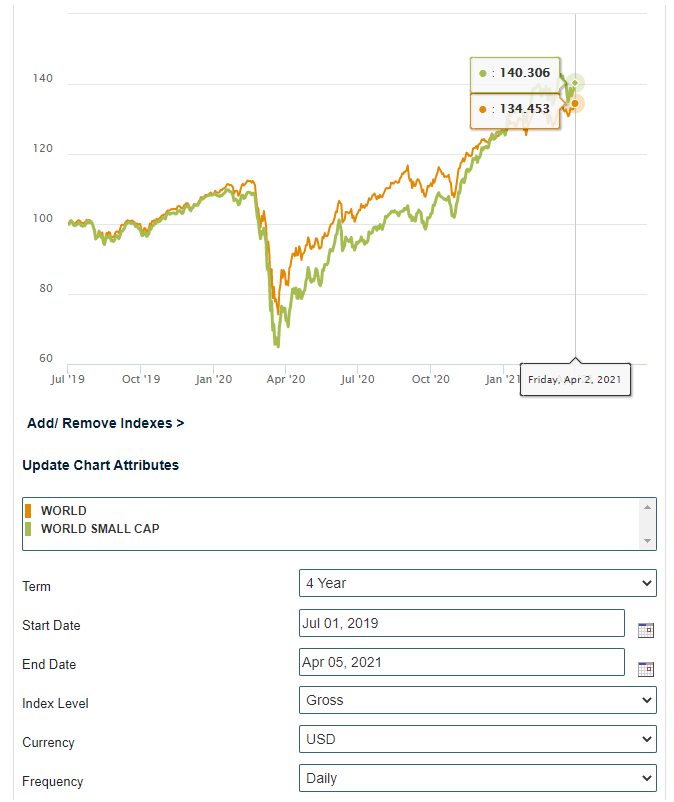
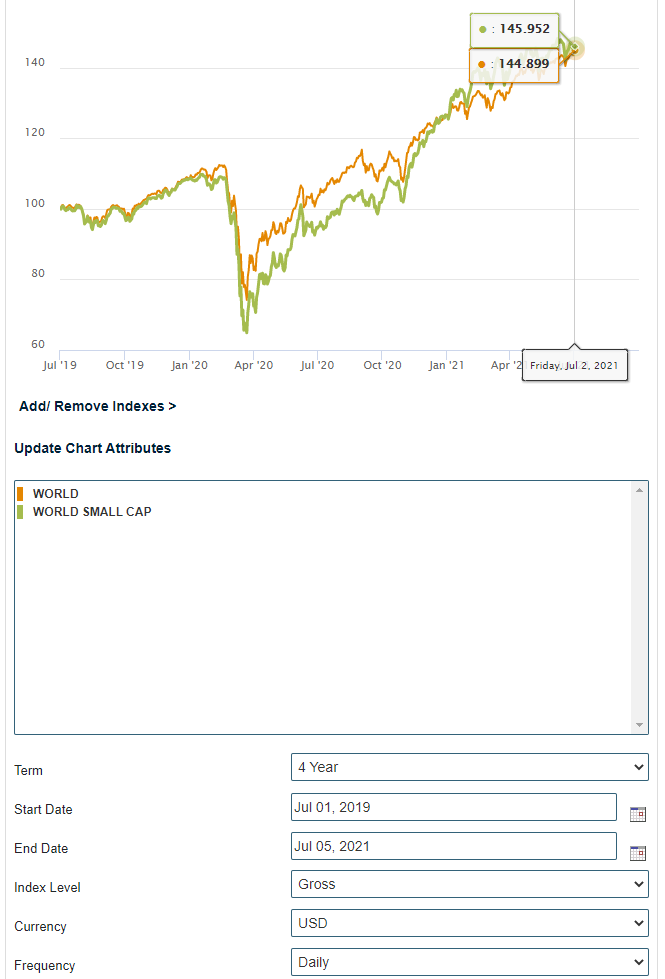
Updated bet-of-the-decade

diff --git a/blog/bet-of-the-decade.html b/blog/bet-of-the-decade.html
@@ -72,7 +72,7 @@
 <section class="row">
 <div class="coffee-span-12 header">
 <h3 class="heading-1" style="direction: rtl; font-size: 40px; padding-bottom: 20px;">התערבות העשור: השקעה פאסיבית מול מנוהלת</h3>
-<p class="paragraph" style="font-size:12px;">פורסם בתאריך 30.6.2019, עדכון אחרון ב-5.4.2021</p>
+<p class="paragraph" style="font-size:12px;">פורסם בתאריך 30.6.2019, עדכון אחרון ב-5.7.2021</p>
 <p class="paragraph" style="font-size:12px;">התכנים בפוסט זה, כמו כל שאר התכנים בבלוג, הינם תכנים לימודיים במהותם, הם אינם מהווים ייעוץ או המלצה לביצוע פעולה בנייר ערך, ואין לראות בהם תחליף לייעוץ השקעות ו/או ייעוץ פנסיוני המתחשב בצרכיו הייחודיים של כל אדם.</p>
 <br>
 <div class="container table-row">
@@ -98,42 +98,41 @@
 <p class="paragraph" style="text-align: center;"><img src="../images/buffett-seides-bet.jpg" alt="buffett-seides-bet"></p>
 <p class="paragraph">כעת, כשנתיים לאחר סיום ההתערבות של באפט וסיידס, אנחנו, יואב ורונן, מעוניינים לשחזר את ההתערבות הזו, עם שינוי קל בתנאים, ולאפשר גם למתחרים נוספים להשתתף בה כמתחרים משניים. עמוד זה יעקוב אחר תשואת התיקים של יואב ושל רונן והתוצאות יעודכנו אחת לרבעון.</p>
 <p class="paragraph" style="padding-top: 20px; font-size:22px;">פרטי ההתערבות</p>
-<p class="paragraph">ההתערבות תצא לדרך בחציון השני של 2019 (כלומר ב-1.7.2019) ותימשך עשור. הפרטים המלאים של ההתערבות מופיעים ב<a target="_blank" href="takanon.pdf">תקנון</a>, ולהלן עיקרי הדברים:</p>
+<p class="paragraph">ההתערבות תצא לדרך בחציון השני של 2019 (כלומר ב-1.7.2019) ותימשך עשור. להלן פרטי ההתערבות:</p>
 <p class="paragraph">1. <b>תקופת התחרות</b>: 1.7.2019 – 30.6.2029.</p>
 <p class="paragraph">2. <b>המתחרים</b>: ואב זליקוביץ ורונן מרגוליס.</p>
-<p class="paragraph">3. <b>הפרס לזוכה</b>: המפסיד בתחרות יתרום 1,800 ₪ לעמותת צדקה לבחירת המנצח (מבין שני המתחרים הראשיים).</p>
-<p class="paragraph">4. <b>על כל מתחרה לבחור באחד משני מסלולים</b>: תיק פאסיבי או תיק מנוהל. הבוחרים בתיק פאסיבי יידרשו לבחור מדד/ים אחר/ים מאלו שבחר רונן, והבוחרים בתיק מנוהל יידרשו לבחור תיק מניות ספציפי, השונה מהתיק של יואב (תותר חפיפה של עד 20%).</p>
-<p class="paragraph">5. <b>אופן הדיווח – תיק מנוהל</b>: יואב יפתח לצורך התחרות חשבון מסחר אמיתי וידווח על מצב התיק באמצעות השוואת שווי התיק ביום הדיווח אל מול שווי התיק בתחילת התחרות.</p>
-<p class="paragraph">6. <b>אופן הדיווח – תיק פאסיבי</b>: רונן ידווח על מצב התיק באמצעות דיווח תוצאות המדדים עצמם.</p>
-<p class="paragraph">7. <b>דמי ניהול</b>: מהחשבון של יואב יופחתו לצורך חישוב התשואה דמי ניהול בגובה 1.2% לשנה, בניכוי רבעוני של 0.3% מהתיק. מהתיק של רונן לא יופחתו דמי ניהול. עלות דמי ניהול של קרנות אשר עוקבות אחרי המדדים בתיק עומדת על כ-0.25%, וסכום דומה הופחת מדמי הניהול הטיפוסיים בתיקים מנוהלים כדוגמת התיק של יואב, שלרוב גבוהים מ-1.2%.</p>
-<p class="paragraph">8. <b>עמלות</b>: כדי לבצע השוואה הוגנת בין התיקים, גובה עמלות הקניה הראשוניות צריך להיות זהה. כיוון שהתיק של רונן מדווח באמצעות מדדים ולכן אינו כולל עמלת קניה, יתווסף לתיק של יואב הסכום של עמלת הקניה הראשונית שלו.</p>
-<p class="paragraph">9. <b>מיסים</b>: מיסים על רווחי הון ועל דיבידנדים לא יהיו חלק מחישוב התשואות, אלא אם נוכו במקור.</p>
-<p class="paragraph">10. <b>נכסים מותרים</b>: לתיק מנוהל – מניות הנסחרות בבורסה מוכרת בעולם. אין להחזיק בתיק מניה בודדת בהיקף העולה על 20% משווי התיק. לתיק פאסיבי – מדדים וקרנות סל. בשתי האפשרויות חל איסור על שימוש במינוף, נגזרים ואופציות.</p>
-<p class="paragraph">11. <b>שינויים בהרכב התיק לאורך תקופת התחרות</b>: יואב לא יוכל להחליף חברות בתיק לאורך תקופת התחרות, וכספי דיבידנדים שיתקבלו יוכלו להיות מושקעים מחדש רק באחת או יותר מהחברות שברשימה. האפשרות היחידה של יואב להחליף חברה בתיק תהיה רק במידה ואותה חברה נרכשה, ובמקרה זה יוכל יואב להשקיע את כספי תמורת המכירה באחת או יותר מהמניות שכבר מצויות בתיקו.</p>
+<p class="paragraph">3. <b>הפרס לזוכה</b>: המפסיד בתחרות יתרום 1,800 ₪ לעמותת צדקה לבחירת המנצח.</p>
+<p class="paragraph">4. <b>אופן הדיווח – תיק מנוהל</b>: יואב יפתח לצורך התחרות חשבון מסחר אמיתי וידווח על מצב התיק באמצעות השוואת שווי התיק ביום הדיווח אל מול שווי התיק בתחילת התחרות.</p>
+<p class="paragraph">5. <b>אופן הדיווח – תיק פאסיבי</b>: רונן ידווח על מצב התיק באמצעות דיווח תוצאות המדדים עצמם.</p>
+<p class="paragraph">6. <b>דמי ניהול</b>: מהחשבון של יואב יופחתו לצורך חישוב התשואה דמי ניהול בגובה 1.2% לשנה, בניכוי רבעוני של 0.3% מהתיק. מהתיק של רונן לא יופחתו דמי ניהול. עלות דמי ניהול של קרנות אשר עוקבות אחרי המדדים בתיק עומדת על כ-0.25%, וסכום דומה הופחת מדמי הניהול הטיפוסיים בתיקים מנוהלים כדוגמת התיק של יואב, שלרוב גבוהים מ-1.2%.</p>
+<p class="paragraph">7. <b>עמלות</b>: כדי לבצע השוואה הוגנת בין התיקים, גובה עמלות הקניה הראשוניות צריך להיות זהה. כיוון שהתיק של רונן מדווח באמצעות מדדים ולכן אינו כולל עמלת קניה, יתווסף לתיק של יואב הסכום של עמלת הקניה הראשונית שלו.</p>
+<p class="paragraph">8. <b>מיסים</b>: מיסים על רווחי הון ועל דיבידנדים לא יהיו חלק מחישוב התשואות, אלא אם נוכו במקור.</p>
+<p class="paragraph">9. <b>נכסים מותרים</b>: לתיק מנוהל – מניות הנסחרות בבורסה מוכרת בעולם. אין להחזיק בתיק מניה בודדת בהיקף העולה על 20% משווי התיק. לתיק פאסיבי – מדדים וקרנות סל. בשתי האפשרויות חל איסור על שימוש במינוף, נגזרים ואופציות.</p>
+<p class="paragraph">10. <b>שינויים בהרכב התיק לאורך תקופת התחרות</b>: יואב לא יוכל להחליף חברות בתיק לאורך תקופת התחרות, וכספי דיבידנדים שיתקבלו יוכלו להיות מושקעים מחדש רק באחת או יותר מהחברות שברשימה. האפשרות היחידה של יואב להחליף חברה בתיק תהיה רק במידה ואותה חברה נרכשה, ובמקרה זה יוכל יואב להשקיע את כספי תמורת המכירה באחת או יותר מהמניות שכבר מצויות בתיקו.</p>
 <p class="paragraph" style="padding-top: 20px; font-size:22px;">התיק של יואב</p>
 <p class="paragraph">התיק של יואב כולל רשימה של 23 מניות ספציפיות שיוחזקו לאורך כל תקופת ההתערבות. יואב בחר בעיקר במניות קטנות יחסית שהוא רואה בהן הזדמנות לתשואה גבוהה. אין לראות ברשימה זו משום המלצה לביצוע פעולה בניירות ערך או לייעוץ השקעות המתחשב בצרכיו הייחודיים של כל אדם.</p>
 <p class="paragraph">פרטים אודות המניות שבחר יואב לתיק יופיעו בהדרגה <a target="_blank" href="https://www.themarker.com/blogs/yoav-zelikovic">בבלוג שלו</a>. הרשימה המלאה: EXO, JDW, BUR, IBKR, PATK, CKI, BYD.UN, MTY, CLAR, ADT.A, FIH.U, MMAC, LBTYK, CMPR, PGR, BAM, L, EVI, MNRO, KKR, AER, IAC, FRMO.</p>
 <p class="paragraph" style="padding-top: 20px; font-size:22px;">התיק של רונן</p>
 <p class="paragraph">התיק של רונן יכלול שני מדדים בינלאומיים רחבים בחלוקה שווה, המכסים ביחד כ-6,000 מניות מכל רחבי העולם המפותח: 50% מהתיק יוקצה למדד <a target="_blank" href="https://www.msci.com/world">MSCI World Index</a> הכולל כ-1,600 חברות גדולות ובינוניות, ו-50% למדד <a target="_blank" href="https://www.msci.com/documents/10199/a67b0d43-0289-4bce-8499-0c102eaa8399">MSCI World Small Cap Index</a> הכולל כ-4,400 חברות קטנות. מעקב אחר תשואת המדדים יתבצע מתוך <a target="_blank" href="https://www.msci.com/end-of-day-history?chart=regional&priceLevel=41&scope=R&style=C&currency=15&size=36&indexId=106">מחולל הגרפים של MSCI</a>, באופן שכולל השקעה מחדש של הדיבידנדים במדדים. להלן גרף המציג את ביצועי המדדים ב-15 השנים שקדמו לתחילת התחרות:</p>
 <p class="paragraph" style="text-align: center;"><img src="../images/MSCI-World-Indexes.jpg" alt="MSCI-World-Indexes"></p>
-<p class="paragraph"><b>מדוע דווקא המדדים הללו?</b> כיוון שמדדי מניות קטנות מספקים תשואה היסטורית (נומינלית) של כ-12% לשנה בממוצע רב-שנתי, ומדדי מניות גדולות מספקים תשואה של כ-10% לשנה בממוצע רב-שנתי, יש היגיון בחשיפה משמעותית של התיק גם למניות קטנות ולא רק למניות גדולות או מניות ענק כמו המניות הכלולות במדד ה-S&P 500 למשל (כמובן שהתשואה העודפת באה ע"ח תנודתיות גבוהה יותר). הסיבה לבחירת שני מדדים ולא מדד גלובלי אחד שכולל גם חברות גדולות וגם קטנות (כדוגמת MSCI World All Cap Index) היא שהמשקל של כמה מאות מניות ענק במדד עולמי אחד מהווה כ-80-90% מכלל המדד, כך שאלפי חברות קטנות יותר מקבלות חשיפה מאוד נמוכה. לכן, בחר רונן להקצות 50% מהתיק למדד מניות גדולות ו-50% למדד מניות קטנות. אין לראות בתיק זה משום המלצה לביצוע פעולה בניירות ערך או לייעוץ השקעות המתחשב בצרכיו הייחודיים של כל אדם.</p>
+<p class="paragraph"><b>מדוע דווקא המדדים הללו?</b> כיוון שמדדי מניות קטנות מספקים תשואה היסטורית (נומינלית) של כ-12% לשנה בממוצע רב-שנתי, ומדדי מניות גדולות מספקים תשואה של כ-10% לשנה בממוצע רב-שנתי, יש היגיון בחשיפה משמעותית של התיק גם למניות קטנות ולא רק למניות גדולות או מניות ענק כמו המניות הכלולות במדד ה-S&P 500 למשל (כמובן שהתשואה העודפת באה ע"ח תנודתיות גבוהה יותר). הסיבה לבחירת שני מדדים ולא מדד גלובלי אחד שכולל גם חברות גדולות וגם קטנות (כדוגמת MSCI World All Cap Index) היא שהמשקל של כמה מאות מניות ענק במדד עולמי אחד מהווה כ-80% מכלל המדד, כך שאלפי חברות קטנות יותר מקבלות חשיפה מאוד נמוכה. לכן, בחר רונן להקצות 50% מהתיק למדד מניות גדולות ו-50% למדד מניות קטנות. אין לראות בתיק זה משום המלצה לביצוע פעולה בניירות ערך או לייעוץ השקעות המתחשב בצרכיו הייחודיים של כל אדם.</p>
 
 <p class="paragraph" style="padding-top: 20px; font-size:22px; color: #008000" id="results">תוצאות ההתערבות</p>
-<p class="paragraph">התוצאות שלהלן הינן התוצאות המצטברות ממועד תחילת ההתערבות (ה-1.7.2019) ועד ה-4.4.2021. נכון למועד זה:</p>
-<p class="paragraph">התיק של יואב השיג תשואה מצטברת של <b>22.73%</b>.</p>
-<p class="paragraph">התיק של רונן השיג תשואה מצטברת של <b>37.38%</b>.</p>
-<p class="paragraph">הפרש התשואות עומד כרגע על <b>14.65%</b> לזכות התיק של רונן, המהווה קיטון של 4.75% בהפרש התשואות מהרבעון הקודם.</p>
+<p class="paragraph">התוצאות שלהלן הינן התוצאות המצטברות ממועד תחילת ההתערבות (ה-1.7.2019) ועד ה-5.7.2021. נכון למועד זה:</p>
+<p class="paragraph">התיק של יואב השיג תשואה מצטברת של <b>25.03%</b>.</p>
+<p class="paragraph">התיק של רונן השיג תשואה מצטברת של <b>45.43%</b>.</p>
+<p class="paragraph">הפרש התשואות עומד כרגע על <b>20.39%</b> לזכות התיק של רונן, המהווה גידול של 5.74% בהפרש התשואות מהרבעון הקודם.</p>
 <br>
 <p class="paragraph" style="font-size:18px;">סיכום תוצאות התיק של יואב</p>
-<p class="paragraph">התיק של יואב התחיל משווי של $3,455, ובנטרול עמלות הקניה החד פעמיות ($158) כמתואר בפרטי ההתערבות שלעיל, עמד על שווי של $3,613. נכון למועד הדיווח התיק עמד על שווי של $4,348, כלומר שווי של $4,506 בנטרול עמלת הקניה, שווי המגלם תשואה של 24.71%. בניכוי דמי הניהול המצטברים ($72) עומדת התשואה על 22.73%. הטבלה שלהלן מפרטת את התשואות של כל אחת מהמניות בתיק של יואב.</p>
+<p class="paragraph">התיק של יואב התחיל משווי של $3,455, ובנטרול עמלות הקניה החד פעמיות ($158) כמתואר בפרטי ההתערבות שלעיל, עמד על שווי של $3,613. נכון למועד הדיווח התיק עמד על שווי של $4,445, כלומר שווי של $4,603 בנטרול עמלת הקניה, שווי המגלם תשואה של 27.4%. בניכוי דמי הניהול המצטברים ($85) עומדת התשואה על 25.03%. הטבלה שלהלן מפרטת את התשואות של כל אחת מהמניות בתיק של יואב.</p>
 <p class="paragraph" style="text-align: center;"><img src="../images/results-yoav.png" alt="results-yoav"></p>
 <br>
 <p class="paragraph" style="font-size:18px;">סיכום תוצאות התיק של רונן</p>
-<p class="paragraph">התיק של רונן התחיל משווי של $200 ($100 לכל מדד) ועמד נכון למועד הדיווח על שווי של $274.76, המגלם תשואה של 37.38%. הגרף שלהלן מציג את התשואה של שני המדדים בתיק של רונן.</p>
+<p class="paragraph">התיק של רונן התחיל משווי של $200 ($100 לכל מדד) ועמד נכון למועד הדיווח על שווי של $290.85, המגלם תשואה של 45.43%. הגרף שלהלן מציג את התשואה של שני המדדים בתיק של רונן.</p>
 <p class="paragraph" style="text-align: center;"><img src="../images/results-ronen.png" alt="results-ronen"></p>
 <br>
 <script type='text/javascript' src='//form.ravpage.co.il/fbafa30d95b851a0b3ba5984f76428c55E9FF981' charset='UTF-8'></script>
-<p class="paragraph">רוצה לשאול שאלות ולהשתתף בדיון? את/ה מוזמן/ת ל<a target="_blank" href="https://www.facebook.com/groups/2210028712553194/permalink/2424941474395249/">פוסט ההתערבות</a>.</p>
+<!--<p class="paragraph">רוצה לשאול שאלות ולהשתתף בדיון? את/ה מוזמן/ת ל<a target="_blank" href="https://www.facebook.com/groups/2210028712553194/permalink/2424941474395249/">פוסט ההתערבות</a>.</p>-->
 <div class="rule2 h3-underline"><hr></div>
 <p class="paragraph" style="color: 000;"><b>רוצה לקבל סוף כל סוף את כל הכלים והידע הפרקטי כדי להשקיע בקלות וביעילות את כספיך וחסכונותיך? <a target="_blank" href="http://services.simplifynance.co.il/">לחץ/י כאן</a> כדי לראות את שירותי ההדרכה והסיוע במימוש השקעות פאסיביות שאנחנו מציעים.</b></p>
 <br>
